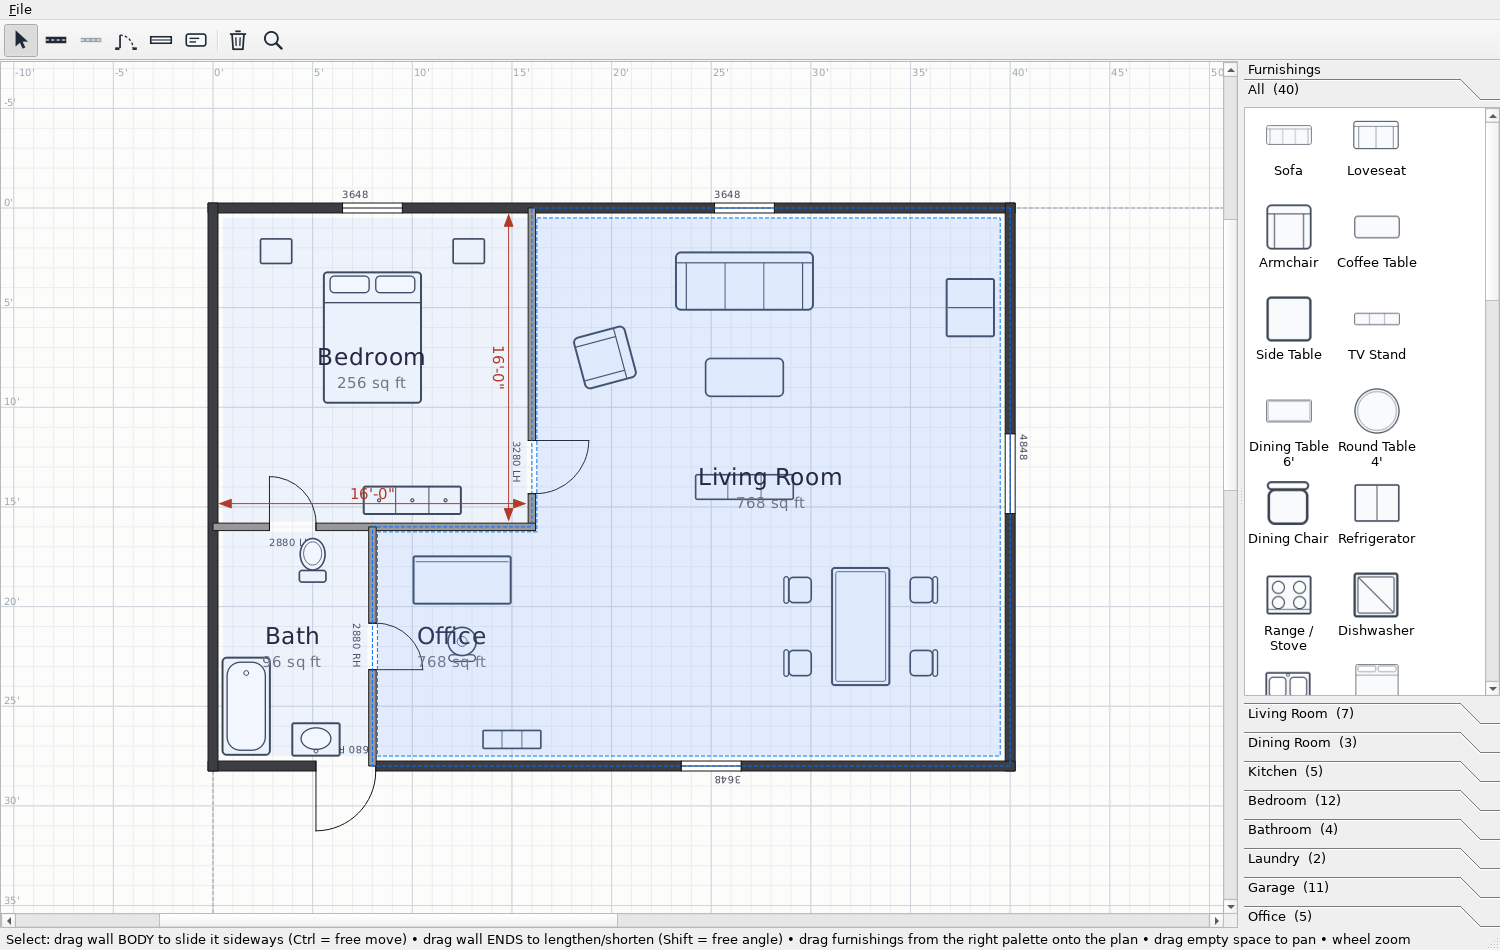
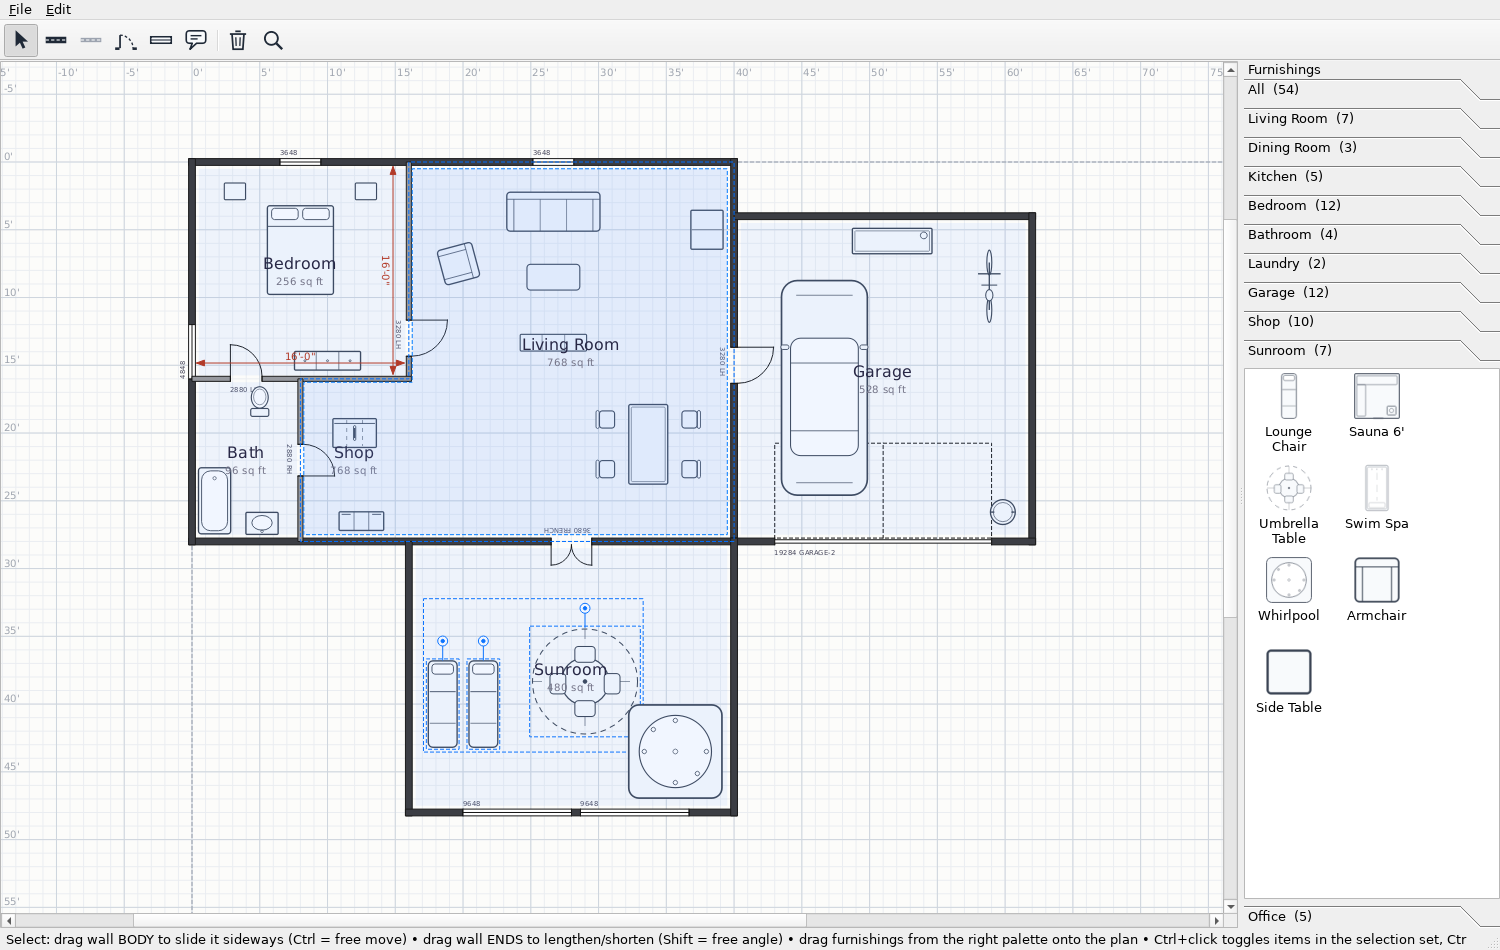
Rooms follow moved/resized walls; fix ungroup destroying items
- GroupItem.bake(): rooms whose bounding walls all belong to the moved
  group shift their anchor with it, so label, outline, shaded region,
  area and corners re-detect at the new location instead of staying
  behind
- refresh_rooms(): when a resize/move leaves the anchor outside the
  room, probe the old region (centroid + grid samples) for the room's
  new extent and re-anchor there, skipping regions owned by other rooms
- Replace Qt addToGroup/destroyItemGroup with transform-safe
  adopt()/dissolve(): groups only translate, so children keep their own
  scene pos/rotation (avoids Qt baking rotation into transform and
  double-rotating furnishings)
- Defer Ungroup/Cut/Delete from the group context menu via
  QTimer.singleShot: destroying the group inside its own context-menu
  event was a use-after-free that could corrupt the scene (looked like
  ungroup deleting every member)
- README screenshot rebuilt: garage wing with double garage door, shop
  and sunroom sets, selected group outline, palette on Sunroom section

diff --git a/FloorPlanner.py b/FloorPlanner.py
@@ -99,7 +99,10 @@ Behaviour
   set holds two or more walls/furnishings.
 * GROUPS: Ctrl+click to multi-select walls/furnishings, then Edit >
   Group (Ctrl+G) makes them select and move as one unit (dashed
-  outline; Ctrl+Shift+G ungroups, right-click for a menu).  Edit >
+  outline; Ctrl+Shift+G ungroups leaving the members where they sit,
+  right-click for a menu).  A room whose walls all belong to a moved
+  group rides along: its label, outline and shaded region re-detect at
+  the new location.  Edit >
   Cut/Copy (Ctrl+X / Ctrl+C) takes the selection or group to an
   internal clipboard and Paste (Ctrl+V) recreates it centred on the
   mouse position, re-grouped; walls keep the on-centre snap and bring
@@ -147,7 +150,7 @@ from collections import deque
 from pathlib import Path
 
 from PyQt6.QtCore import (QLineF, QMimeData, QPoint, QPointF, QRect, QRectF,
-                          QSize, Qt)
+                          QSize, Qt, QTimer)
 from PyQt6.QtGui import (
     QAction,
     QActionGroup,
@@ -841,14 +844,49 @@ def unique_room_name(scene, base: str, exclude=None) -> str:
 
 
 def refresh_rooms(scene):
-    """Re-detect every room's region + perimeter after walls change."""
+    """Re-detect every room's region + perimeter after walls change.
+
+    When the stored anchor no longer falls inside the room (its walls
+    were moved or resized past it), probe points across the room's last
+    known region for its new extent and move the anchor (and label)
+    there — skipping any region that already belongs to another room."""
     if scene is None:
         return
-    for it in list(scene.items()):
-        if isinstance(it, RoomItem):
-            res = detect_room(scene, it.anchor)
-            if res is not None:
-                it.set_region(*res)
+    rooms = [it for it in scene.items() if isinstance(it, RoomItem)]
+    for it in rooms:
+        res = detect_room(scene, it.anchor)
+        if res is None:
+            others = [r for r in rooms if r is not it]
+            for p in _room_probe_points(it):
+                cand = detect_room(scene, p)
+                if cand is None or any(cand[0].contains(o.anchor)
+                                       for o in others):
+                    continue
+                res = cand
+                it.prepareGeometryChange()
+                it.anchor = QPointF(p)
+                break
+        if res is not None:
+            it.set_region(*res)
+
+
+def _room_probe_points(room) -> list:
+    """Candidate interior points for re-finding a room whose anchor was
+    left outside: the old perimeter's centroid, then a grid sample of
+    the old region."""
+    pts = []
+    if room.corners:
+        n = len(room.corners)
+        pts.append(QPointF(sum(p.x() for p in room.corners) / n,
+                           sum(p.y() for p in room.corners) / n))
+    br = room.path.boundingRect()
+    for iy in range(1, 6):
+        for ix in range(1, 6):
+            p = QPointF(br.left() + br.width() * ix / 6.0,
+                        br.top() + br.height() * iy / 6.0)
+            if room.path.contains(p):
+                pts.append(p)
+    return pts
 
 
 def rebuild_all_walls(scene):
@@ -2213,12 +2251,53 @@ class GroupItem(QGraphicsItemGroup):
         painter.setBrush(Qt.BrushStyle.NoBrush)
         painter.drawRect(self.childrenBoundingRect().adjusted(-2, -2, 2, 2))
 
+    def adopt(self, item):
+        """addToGroup without Qt's transform juggling.  The group always
+        sits at (0,0) untransformed, so children can simply keep their
+        own scene position and rotation.  (Qt's addToGroup bakes a
+        rotated child's rotation into its transform(), which then
+        combines with the still-set rotation() and double-rotates.)"""
+        sp, rot = item.scenePos(), item.rotation()
+        self.addToGroup(item)
+        item.setTransform(QTransform())
+        if isinstance(item, WallItem):
+            item.setPos(0.0, 0.0)         # walls live in their p1/p2
+        else:
+            item.setPos(sp)
+        item.setRotation(rot)
+
+    def dissolve(self) -> list:
+        """Remove the group, leaving its members in the scene exactly
+        where they are now; returns the members."""
+        children = list(self.childItems())
+        for c in children:
+            sp, rot = c.scenePos(), c.rotation()
+            self.removeFromGroup(c)
+            c.setTransform(QTransform())
+            c.setPos(QPointF(0.0, 0.0) if isinstance(c, WallItem) else sp)
+            c.setRotation(rot)
+        if self.scene() is not None:
+            self.scene().removeItem(self)
+        return children
+
     def bake(self):
         """Fold the group's current translation into its members and
-        reset the group to (0, 0)."""
+        reset the group to (0, 0).  Rooms whose walls all belong to the
+        group ride along: their anchor (label) shifts too, so the room
+        region re-detects at the new location."""
         d = self.pos()
         if abs(d.x()) < 1e-9 and abs(d.y()) < 1e-9:
             return
+        sc = self.scene()
+        moved_rooms = []
+        group_walls = {ch for ch in self.childItems()
+                       if isinstance(ch, WallItem)}
+        if sc is not None and group_walls:
+            for it in sc.items():
+                if isinstance(it, RoomItem):
+                    bw = it.bounding_walls()
+                    if bw and all(w in group_walls for w in bw):
+                        moved_rooms.append(it)
         self.prepareGeometryChange()
         for ch in self.childItems():
             if isinstance(ch, WallItem):
@@ -2226,8 +2305,11 @@ class GroupItem(QGraphicsItemGroup):
                 ch.p2 = QPointF(ch.p2.x() + d.x(), ch.p2.y() + d.y())
             else:
                 ch.setPos(ch.pos().x() + d.x(), ch.pos().y() + d.y())
+        for r in moved_rooms:
+            r.prepareGeometryChange()
+            r.anchor = QPointF(r.anchor.x() + d.x(), r.anchor.y() + d.y())
         self.setPos(0.0, 0.0)
-        rebuild_all_walls(self.scene())
+        rebuild_all_walls(sc)             # re-detects rooms at new anchors
 
     def mouseReleaseEvent(self, e):
         super().mouseReleaseEvent(e)
@@ -2245,18 +2327,18 @@ class GroupItem(QGraphicsItemGroup):
         menu.addSeparator()
         a_del = menu.addAction("Delete group")
         chosen = menu.exec(e.screenPos())
-        if win is not None and chosen in (a_un, a_cut, a_copy):
+        if win is not None and chosen in (a_un, a_cut, a_del):
             sc.clearSelection()
             self.setSelected(True)
-            if chosen is a_un:
-                win.ungroup_selected()
-            elif chosen is a_cut:
-                win.cut_selected()
-            else:
-                win.copy_selected()
-        elif chosen is a_del and sc is not None:
-            sc.removeItem(self)
-            rebuild_all_walls(sc)
+            # defer: these destroy this item, which must not happen
+            # while Qt is still delivering its context-menu event
+            slot = {a_un: win.ungroup_selected, a_cut: win.cut_selected,
+                    a_del: win.delete_selected}[chosen]
+            QTimer.singleShot(0, slot)
+        elif chosen is a_copy and win is not None:
+            sc.clearSelection()
+            self.setSelected(True)
+            win.copy_selected()
         e.accept()
 
 
@@ -2901,8 +2983,7 @@ class MainWindow(QMainWindow):
                 members.append(it)
         for g in old_groups:
             g.bake()
-            members += g.childItems()
-            self.scene.destroyItemGroup(g)
+            members += g.dissolve()
         if len(members) < 2:
             self.status("Select at least two walls/furnishings to group "
                         "(Ctrl+click to multi-select).")
@@ -2911,7 +2992,7 @@ class MainWindow(QMainWindow):
         group = GroupItem()
         self.scene.addItem(group)
         for it in members:
-            group.addToGroup(it)
+            group.adopt(it)
         group.setSelected(True)
         self.status(f"Grouped {len(members)} items — drag to move, "
                     "Ctrl+Shift+G to ungroup.")
@@ -2923,13 +3004,11 @@ class MainWindow(QMainWindow):
             self.status("Select a group to ungroup.")
             return
         for g in groups:
-            g.bake()
-            children = g.childItems()
-            self.scene.destroyItemGroup(g)
-            for c in children:
+            g.bake()                      # members keep their moved spot
+            for c in g.dissolve():
                 c.setSelected(True)
-        rebuild_all_walls(self.scene)
-        self.status("Ungrouped.")
+        rebuild_all_walls(self.scene)     # rooms re-detect region/outline
+        self.status("Ungrouped — items left in place.")
 
     def _selection_spec(self):
         """Selected walls/furnishings (groups expand to their members)
@@ -3037,7 +3116,7 @@ class MainWindow(QMainWindow):
             group = GroupItem()
             self.scene.addItem(group)
             for it in pasted:
-                group.addToGroup(it)
+                group.adopt(it)
             group.setSelected(True)
         else:
             for it in pasted:

diff --git a/docs/make_screenshot.py b/docs/make_screenshot.py
@@ -20,11 +20,20 @@ app.setFont(QFont(FP.FONT_FAMILY, 10))
 win = FP.MainWindow()
 sc = win.scene
 
-# --- walls: 40' x 28' shell, bedroom / bath / office on the left ----------
+# --- walls -------------------------------------------------------------------
+# 40' x 28' shell; bedroom / bath / shop left; garage wing right;
+# sunroom below the living room
 W = [((0, 0), (480, 0), "exterior"), ((480, 0), (480, 336), "exterior"),
      ((480, 336), (0, 336), "exterior"), ((0, 336), (0, 0), "exterior"),
      ((192, 0), (192, 192), "interior"), ((0, 192), (192, 192), "interior"),
-     ((96, 192), (96, 336), "interior")]
+     ((96, 192), (96, 336), "interior"),
+     # garage 22' x 24', sharing the shell's right wall
+     ((480, 48), (744, 48), "exterior"), ((744, 48), (744, 336), "exterior"),
+     ((480, 336), (744, 336), "exterior"),
+     # sunroom 24' x 20' below the living room
+     ((192, 336), (192, 576), "exterior"),
+     ((192, 576), (480, 576), "exterior"),
+     ((480, 576), (480, 336), "exterior")]
 walls = []
 for p1, p2, t in W:
     w = FP.WallItem(QPointF(*p1), QPointF(*p2), t)
@@ -41,28 +50,37 @@ def wall_at(p1, p2):
     raise LookupError((p1, p2))
 
 
-def opening(w, kind, code, s, door_type="LH"):
+def opening(w, kind, code, s, door_type="LH", swing=None):
     op = FP.OpeningItem(w, kind, code, s)
     op.door_type = door_type
+    if swing is not None:
+        op.swing = swing
     w.openings.append(op)
     w.rebuild()
 
 
 opening(wall_at((192, 0), (192, 192)), "door", "3280", 156)      # bedroom
 opening(wall_at((0, 192), (192, 192)), "door", "2880", 48)       # bath
-opening(wall_at((96, 192), (96, 336)), "door", "2880", 72, "RH")  # office
+opening(wall_at((96, 192), (96, 336)), "door", "2880", 72, "RH")  # shop
+opening(wall_at((480, 0), (480, 336)), "door", "3280", 180)      # garage
+opening(wall_at((480, 336), (0, 336)), "door", "3680", 144, "FRENCH")
 opening(wall_at((0, 0), (480, 0)), "window", "3648", 96)
 opening(wall_at((0, 0), (480, 0)), "window", "3648", 320)
-opening(wall_at((480, 0), (480, 336)), "window", "4848", 160)
-opening(wall_at((480, 336), (0, 336)), "window", "3648", 180)
-opening(wall_at((480, 336), (0, 336)), "door", "3680", 400, "RH")
+opening(wall_at((0, 336), (0, 0)), "window", "4848", 168)
+opening(wall_at((192, 576), (480, 576)), "window", "9648", 96)
+opening(wall_at((192, 576), (480, 576)), "window", "9648", 200)
+# double-wide garage door with its dashed overhead outline
+opening(wall_at((480, 336), (744, 336)), "door", "19284", 132,
+        "GARAGE-2", swing=-1)
+
 
 # --- rooms ------------------------------------------------------------------
-def room(name, anchor, dims=False, sel=False):
+def room(name, anchor, rtype="", dims=False, sel=False):
     res = FP.detect_room(sc, QPointF(*anchor))
     assert res is not None, name
-    path, area, corners = res
-    r = FP.RoomItem(name, QPointF(*anchor), path, area, corners=corners)
+    r = FP.RoomItem(name, QPointF(*anchor), res[0], res[1], corners=res[2])
+    if rtype:
+        r.properties["room_type"] = rtype
     r.show_dims = dims
     sc.addItem(r)
     if sel:
@@ -70,26 +88,47 @@ def room(name, anchor, dims=False, sel=False):
     return r
 
 
-room("Bedroom", (96, 96), dims=True)
-room("Bath", (48, 264))
-room("Office", (144, 264))
-room("Living Room", (336, 168), sel=True)
+room("Bedroom", (96, 96), "Bedroom", dims=True)
+room("Bath", (48, 264), "Bathroom")
+room("Shop", (144, 264), "Shop")
+room("Living Room", (336, 168), "Living Room", sel=True)
+room("Garage", (612, 192), "Garage")
+room("Sunroom", (336, 456), "Sunroom")
 
 # --- furnishings -------------------------------------------------------------
 F = [("bed_queen", (96, 78), 0), ("nightstand", (38, 26), 0),
      ("nightstand", (154, 26), 0), ("dresser", (120, 176), 180),
      ("bathtub", (20, 300), 0), ("toilet", (60, 212), 180),
      ("vanity", (62, 320), 180),
-     ("desk", (150, 224), 0), ("office_chair", (150, 262), 180),
-     ("bookshelf", (180, 320), 180),
+     ("table_saw", (144, 240), 0), ("toolchest", (150, 318), 0),
      ("sofa", (320, 44), 0), ("coffee_table", (320, 102), 0),
-     ("armchair", (236, 90), 75), ("tv_stand", (320, 168), 180),
-     ("dining_table", (390, 252), 90),
-     ("dining_chair", (352, 230), 270), ("dining_chair", (352, 274), 270),
-     ("dining_chair", (428, 230), 90), ("dining_chair", (428, 274), 90),
-     ("refrigerator", (456, 60), 90)]
+     ("armchair", (236, 90), 75), ("tv_stand", (320, 160), 180),
+     ("dining_table", (404, 250), 90),
+     ("dining_chair", (366, 228), 270), ("dining_chair", (366, 272), 270),
+     ("dining_chair", (442, 228), 90), ("dining_chair", (442, 272), 90),
+     ("refrigerator", (456, 60), 90),
+     ("suv", (560, 200), 0), ("bicycle", (706, 110), 0),
+     ("workbench", (620, 70), 0), ("trashcan", (718, 310), 0),
+     ("whirlpool", (428, 522), 0), ("lounge_chair", (222, 480), 0),
+     ("lounge_chair", (258, 480), 0)]
+items = {}
 for kind, pos, rot in F:
-    sc.addItem(FP.FurnishingItem(kind, QPointF(*pos), rot))
+    it = FP.FurnishingItem(kind, QPointF(*pos), rot)
+    sc.addItem(it)
+    items.setdefault(kind, []).append(it)
+
+# umbrella table grouped with the lounge chairs (selected group outline)
+umb = FP.FurnishingItem("umbrella_table", QPointF(348, 460), 0)
+sc.addItem(umb)
+g = FP.GroupItem()
+sc.addItem(g)
+for it in [umb] + items["lounge_chair"]:
+    g.adopt(it)
+g.setSelected(True)
+
+# show the new Sunroom palette section
+names = [grp["name"] for grp in FP.furnishing_groups()]
+win.furn_palette.setCurrentIndex(names.index("Sunroom"))
 
 # --- grab --------------------------------------------------------------------
 win.resize(1500, 950)